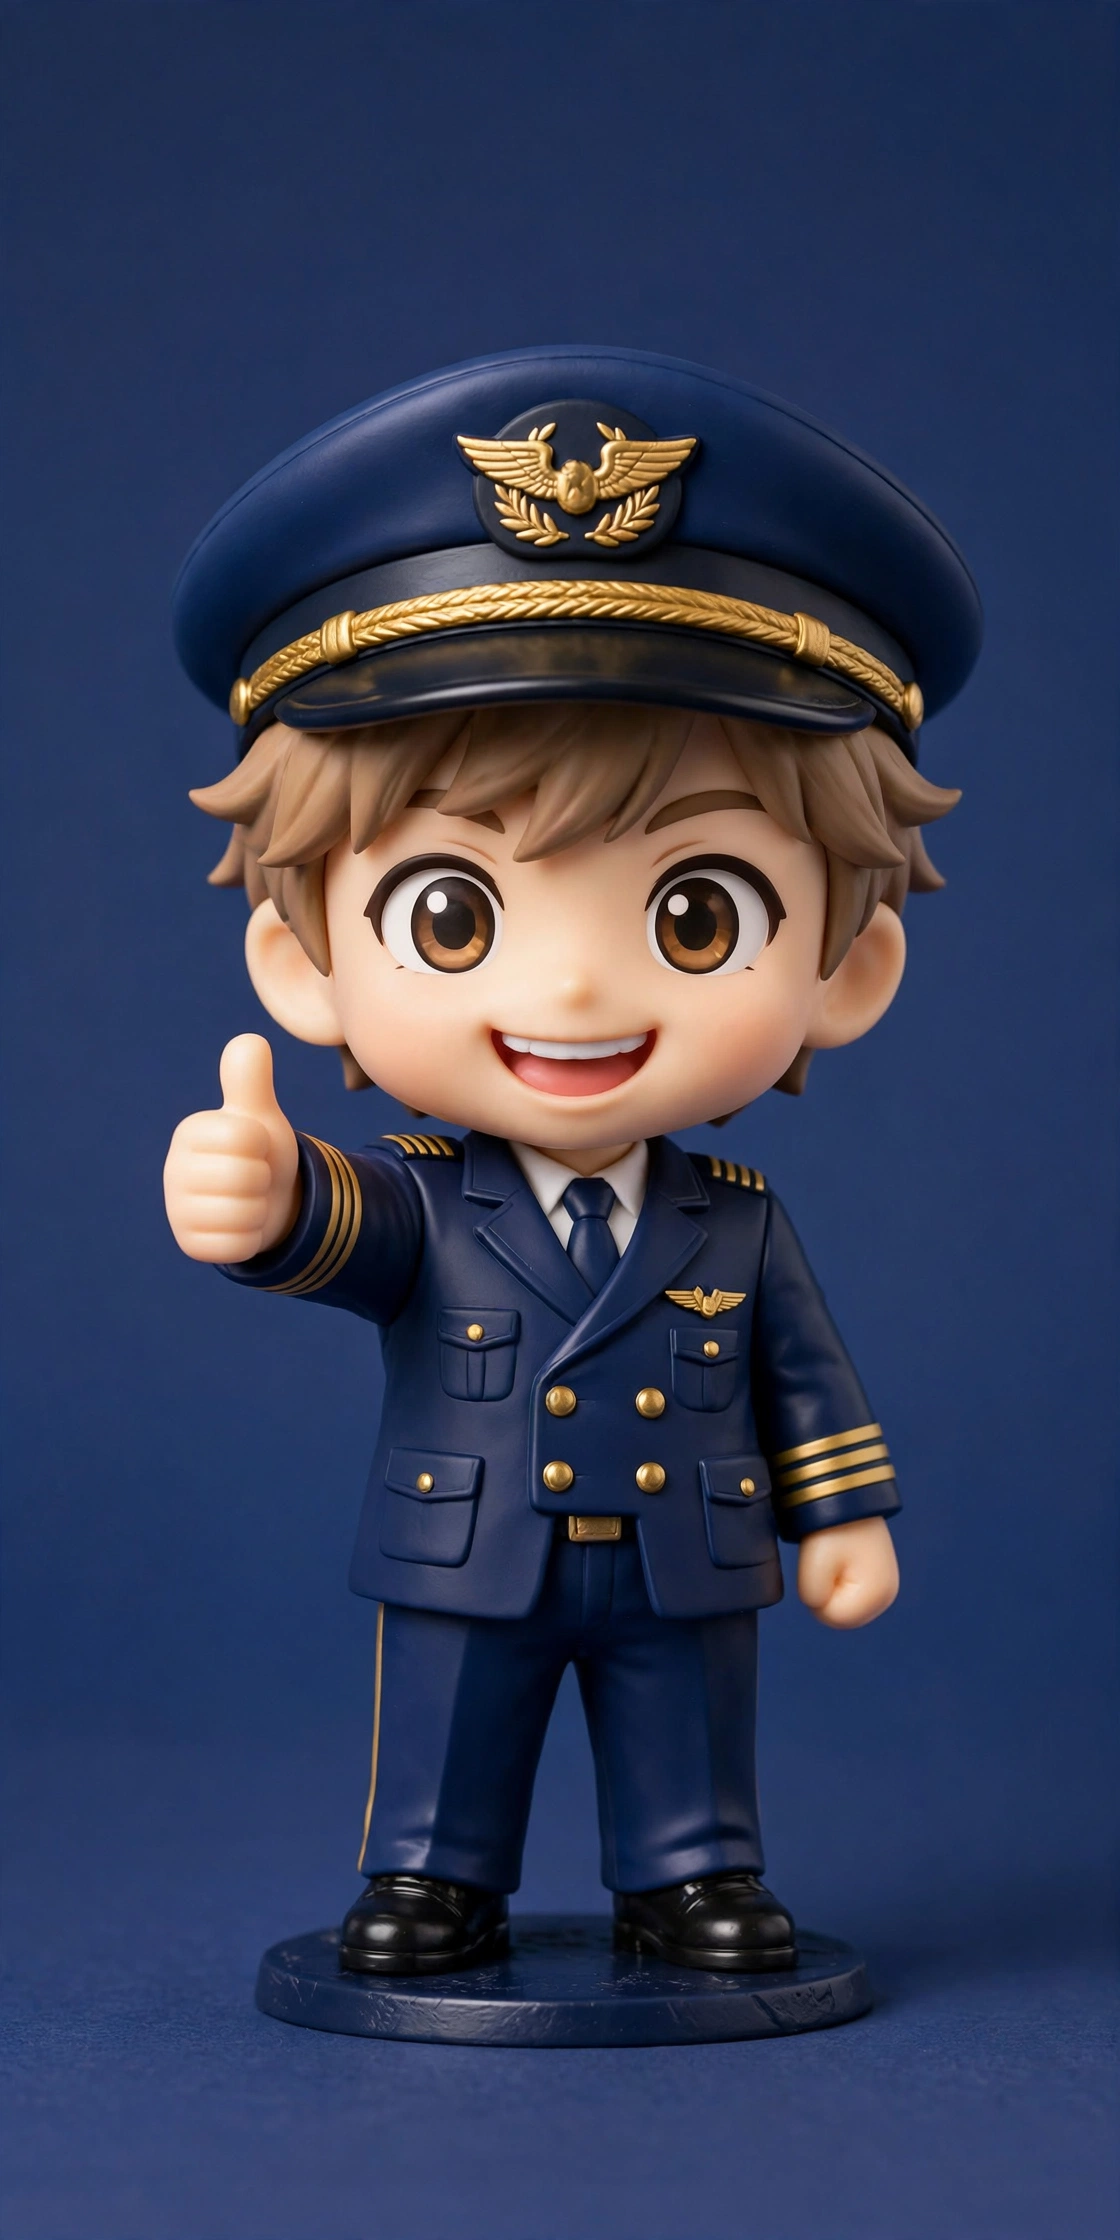
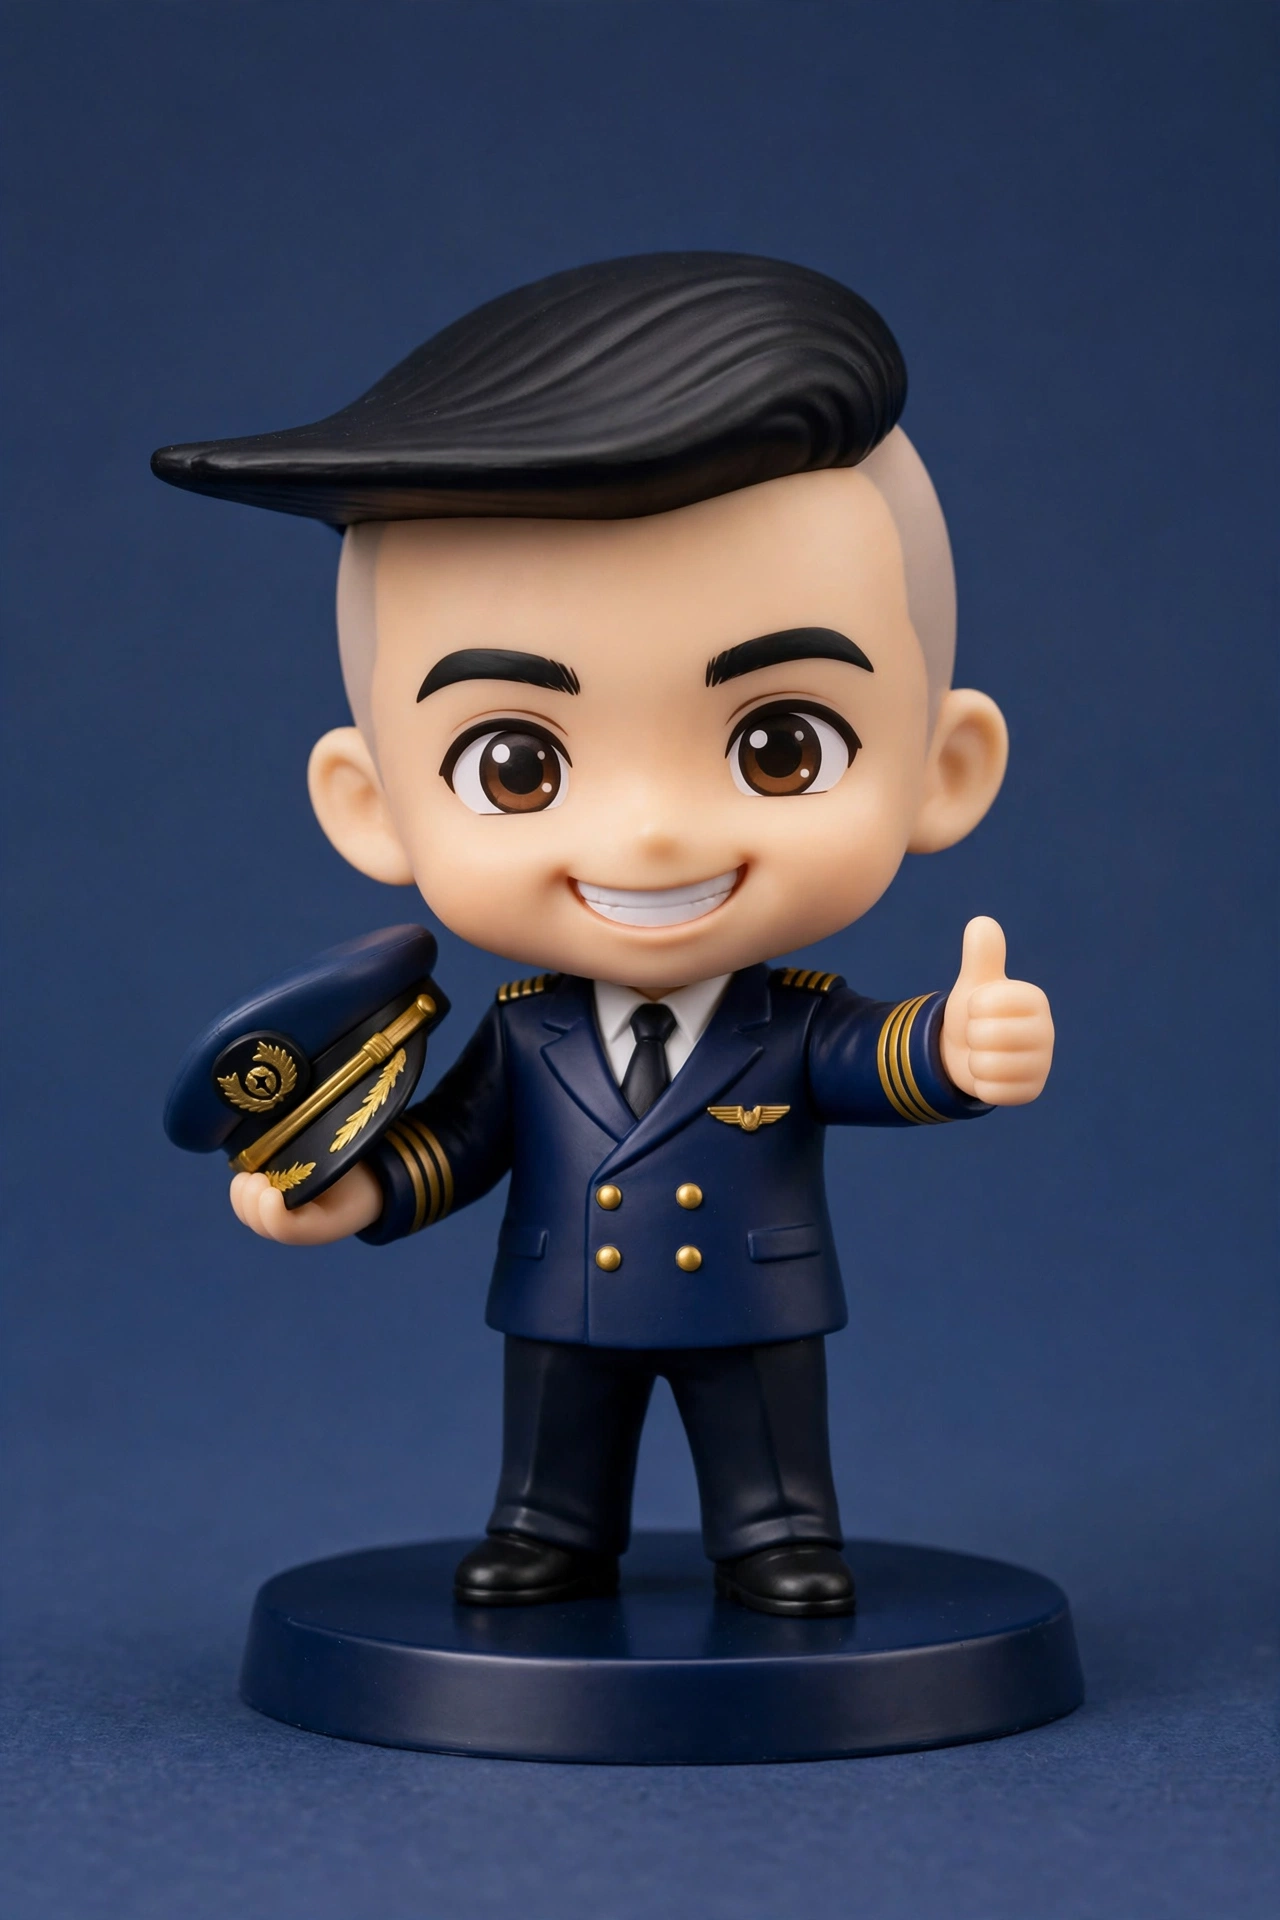
v3.2: richer interactions, new captain model

diff --git a/index.html b/index.html
@@ -191,8 +191,10 @@ img{display:block;max-width:100%}
       <div id="flyStatus" style="letter-spacing:.34em;text-indent:.34em;color:var(--gold);font-size:15px;min-height:24px">待 命</div>
     </div>
     <div class="btnrow rise" style="--i:2;margin-top:12px">
-      <button class="abtn" id="flyBtn">起飛</button>
+      <button class="abtn" id="flyBtn">自動起飛</button>
+      <button class="abtn" id="holdBtn" style="touch-action:none">按住拉桿</button>
     </div>
+    <p class="rise" style="--i:2;margin-top:10px;color:var(--paper-dim);font-size:12.5px;letter-spacing:.2em;text-indent:.2em">按住「拉桿」親手爬升 · 點下面任一步驟可直達</p>
     <div id="steps" style="width:min(88vw,430px);margin-top:24px;text-align:left;display:grid;gap:12px">
       <div class="step rise" style="--i:3" data-th="0">
         <span class="dot" style="background:var(--gb)"></span>
@@ -218,7 +220,8 @@ img{display:block;max-width:100%}
     <p class="p-caption rise" style="--i:8;margin:20px 0 8px">啟程翱翔 · 直上雲端</p>
   </div>
   <style>
-    .step{display:flex;gap:13px;padding:13px 15px;border:1px solid rgba(246,240,225,.14);border-radius:14px;background:rgba(9,24,52,.5);opacity:.42;transition:opacity .5s,border-color .5s,transform .6s var(--spring-soft)}
+    .step{display:flex;gap:13px;padding:13px 15px;border:1px solid rgba(246,240,225,.14);border-radius:14px;background:rgba(9,24,52,.5);opacity:.42;transition:opacity .5s,border-color .5s,transform .6s var(--spring-soft);cursor:pointer}
+    .step:active{transform:scale(.98)}
     .step .dot{flex:none;width:11px;height:11px;border-radius:50%;margin-top:6px}
     .step h5{font-size:16.5px;letter-spacing:.14em;color:#fff;font-weight:600}
     .step p{margin-top:4px;font-size:14px;line-height:1.85;color:var(--paper-dim)}
@@ -235,7 +238,7 @@ img{display:block;max-width:100%}
   <div class="stage">
     <div id="beam" style="position:absolute;top:-4%;left:50%;width:min(78vw,340px);height:62%;background:linear-gradient(180deg,rgba(255,236,190,.34),rgba(255,236,190,.05) 78%,transparent);clip-path:polygon(42% 0,58% 0,100% 100%,0 100%);filter:blur(2px);pointer-events:none"></div>
     <div id="motes" style="position:absolute;top:8%;left:50%;transform:translateX(-50%);width:min(70vw,300px);height:55%;pointer-events:none"></div>
-    <div class="rise" style="--i:0;perspective:700px;position:relative;z-index:2">
+    <div class="rise" id="sculptWrap" style="--i:0;perspective:700px;position:relative;z-index:2;cursor:grab;touch-action:none">
       <svg id="sculpt" viewBox="0 0 200 260" style="width:min(52vw,215px);filter:drop-shadow(0 24px 30px rgba(0,0,0,.55));will-change:transform" aria-label="大理石雕塑模型">
         <defs>
           <linearGradient id="marble" x1="0" y1="0" x2="1" y2="1">
@@ -256,10 +259,13 @@ img{display:block;max-width:100%}
       <div class="brush" style="font-size:31px;color:var(--gold);letter-spacing:.08em">鎮館之寶</div>
       <p style="margin-top:8px;line-height:2;color:var(--paper);font-size:15px">鄧氏偉器 · 真跡等身模型<br>通體渾然天成，氣勢磅礴<br>觀之令人心折，嘆為觀止</p>
     </div>
-    <div class="btnrow rise" style="--i:2;position:relative;z-index:2">
+    <p class="rise" id="viewNote" style="--i:2;position:relative;z-index:2;margin-top:16px;max-width:86vw;color:var(--gold);font-size:14.5px;letter-spacing:.14em;line-height:1.9;min-height:27px">鑑賞筆記 · 其形昂然，其勢沖天。</p>
+    <div class="btnrow rise" style="--i:3;position:relative;z-index:2;margin-top:14px">
       <button class="abtn" id="zoomBtn">近觀</button>
+      <button class="abtn" id="lightBtn">換燈光</button>
+      <button class="abtn" id="rotBtn">停旋轉</button>
     </div>
-    <p class="p-caption rise" style="--i:3;margin-top:14px;position:relative;z-index:2">靜心鑑賞 · 請勿觸摸（眼看手勿動）</p>
+    <p class="p-caption rise" style="--i:4;margin-top:14px;position:relative;z-index:2">拖動展品可親手轉向 · 點展品換一則筆記</p>
   </div>
 </div>
 
@@ -280,6 +286,8 @@ img{display:block;max-width:100%}
     <div class="btnrow rise" style="--i:2">
       <button class="abtn" data-act="salute">敬禮</button>
       <button class="abtn" data-act="spin">轉圈</button>
+      <button class="abtn" data-act="pat">摸頭</button>
+      <button class="abtn" data-act="dance">跳舞</button>
       <button class="abtn" data-act="jump">起飛</button>
     </div>
     <p class="p-caption rise" style="--i:3;margin-top:14px">機長本長 · 隨意把玩</p>
@@ -325,40 +333,86 @@ function closePanels(){document.querySelectorAll('.panel.open').forEach(function
 document.querySelectorAll('[data-open]').forEach(function(b){b.addEventListener('click',function(){openPanel(b.dataset.open);});});
 document.querySelectorAll('[data-close]').forEach(function(b){b.addEventListener('click',closePanels);});
 
-/* ---------- fly: altitude + steps ---------- */
-var flying=false;
+/* ---------- fly: altitude + steps (auto / hold / tap-step) ---------- */
+var flyAlt=0,flyAnim=null;
+var flyNames=['登機就位','滑行蓄勢','全速衝刺','昂首抬輪','巡航 · 萬米雲端'];
+function flySteps(){return [].slice.call(document.querySelectorAll('#steps .step'));}
+function setAlt(v){
+  flyAlt=Math.max(0,Math.min(10000,Math.round(v)));
+  document.getElementById('alt').textContent=flyAlt.toLocaleString('en-US');
+  var idx=0;flySteps().forEach(function(s,i){var on=flyAlt>=+s.dataset.th;s.classList.toggle('on',on);if(on)idx=i;});
+  document.getElementById('flyStatus').textContent=flyAlt>=10000?flyNames[4]:(flyAlt===0?'待 命':flyNames[idx]);
+}
+function animateAlt(to,dur,done){
+  if(flyAnim)cancelAnimationFrame(flyAnim);
+  var from=flyAlt,t0=null;
+  function frame(ts){if(!t0)t0=ts;var p=Math.min((ts-t0)/dur,1);var e=1-Math.pow(1-p,3);
+    setAlt(from+(to-from)*e);
+    if(p<1)flyAnim=requestAnimationFrame(frame);else{flyAnim=null;if(done)done();}}
+  flyAnim=requestAnimationFrame(frame);
+}
 function startFlight(){
-  if(flying)return;flying=true;
-  var alt=document.getElementById('alt'),st=document.getElementById('flyStatus'),btn=document.getElementById('flyBtn');
-  var steps=[].slice.call(document.querySelectorAll('#steps .step'));
-  steps.forEach(function(s){s.classList.remove('on');});
+  var btn=document.getElementById('flyBtn');
   btn.textContent='飛行中…';btn.style.opacity=.55;btn.style.pointerEvents='none';
-  var names=['登機就位','滑行蓄勢','全速衝刺','昂首抬輪','直上雲端 · 巡航'];
-  var t0=null,D=5200;
-  function frame(ts){
-    if(!t0)t0=ts;var p=Math.min((ts-t0)/D,1);
-    var e=1-Math.pow(1-p,3),v=Math.round(e*10000);
-    alt.textContent=v.toLocaleString('en-US');
-    var idx=0;steps.forEach(function(s,i){if(v>=+s.dataset.th){s.classList.add('on');idx=i;}});
-    st.textContent=names[Math.min(idx+(p>0&&idx===0?0:0),4)]&&(p>=1?'巡航 · 萬米雲端':names[Math.min(Math.max(idx,0),4)]);
-    if(p<1)requestAnimationFrame(frame);
-    else{st.textContent='巡航 · 萬米雲端';btn.textContent='再飛一次';btn.style.opacity=1;btn.style.pointerEvents='auto';flying=false;}
-  }
-  requestAnimationFrame(frame);
+  animateAlt(10000,5200,function(){btn.textContent='再飛一次';btn.style.opacity=1;btn.style.pointerEvents='auto';});
 }
 document.getElementById('flyBtn').addEventListener('click',startFlight);
+flySteps().forEach(function(s){s.addEventListener('click',function(){animateAlt(Math.min((+s.dataset.th)+900,10000),1100);});});
+(function(){
+  var hb=document.getElementById('holdBtn'),holding=false,last=0;
+  function climb(ts){if(!holding)return;if(last)setAlt(flyAlt+(ts-last)*3.4);last=ts;
+    if(flyAlt<10000)requestAnimationFrame(climb);}
+  hb.addEventListener('pointerdown',function(e){e.preventDefault();if(flyAnim){cancelAnimationFrame(flyAnim);flyAnim=null;}
+    holding=true;last=0;hb.textContent='拉桿中…';requestAnimationFrame(climb);});
+  ['pointerup','pointerleave','pointercancel'].forEach(function(ev){hb.addEventListener(ev,function(){holding=false;hb.textContent='按住拉桿';});});
+})();
 
-/* ---------- view: motes + zoom ---------- */
+/* ---------- view: motes + zoom + light + drag-rotate + notes ---------- */
 (function(){
   var m=document.getElementById('motes');
   for(var i=0;i<14;i++){var s=document.createElement('span');s.className='mote';
     var sz=(Math.random()*3+1.6);s.style.width=s.style.height=sz+'px';
     s.style.left=(Math.random()*92+4)+'%';s.style.top=(Math.random()*80+12)+'%';
     s.style.animationDuration=(Math.random()*7+6)+'s';s.style.animationDelay=(-Math.random()*8)+'s';m.appendChild(s);}
-  var zoomed=false,sc=document.getElementById('sculpt'),zb=document.getElementById('zoomBtn');
+  var sc=document.getElementById('sculpt'),wrap=document.getElementById('sculptWrap'),
+      beam=document.getElementById('beam'),note=document.getElementById('viewNote');
+  var zoomed=false,zb=document.getElementById('zoomBtn');
   zb.addEventListener('click',function(){zoomed=!zoomed;
-    sc.style.transition='transform 1s cubic-bezier(.3,1.4,.44,1)';
+    sc.style.transition='scale 1s cubic-bezier(.3,1.4,.44,1)';
     sc.style.scale=zoomed?'1.45':'1';zb.textContent=zoomed?'遠觀':'近觀';});
+  /* light cycling */
+  var lights=[
+    ['linear-gradient(180deg,rgba(255,236,190,.34),rgba(255,236,190,.05) 78%,transparent)','暖光'],
+    ['linear-gradient(180deg,rgba(178,216,255,.38),rgba(178,216,255,.06) 78%,transparent)','冷光'],
+    ['linear-gradient(180deg,rgba(255,196,64,.45),rgba(255,196,64,.07) 78%,transparent)','金光']
+  ],li=0;
+  document.getElementById('lightBtn').addEventListener('click',function(){
+    li=(li+1)%lights.length;beam.style.background=lights[li][0];this.textContent='燈光 · '+lights[li][1];});
+  /* auto-rotate toggle (pauses the sway animation) */
+  var rb=document.getElementById('rotBtn'),rotOn=true;
+  rb.addEventListener('click',function(){rotOn=!rotOn;
+    if(rotOn){sc.style.animation='';sc.style.transform='';sc.style.animationPlayState='running';}
+    else sc.style.animationPlayState='paused';
+    rb.textContent=rotOn?'停旋轉':'啟旋轉';});
+  /* drag to rotate manually */
+  var dragging=false,lastX=0,baseRot=0,moved=0;
+  function curRot(){var t=sc.style.transform.match(/rotateY\((-?[\d.]+)deg\)/);return t?parseFloat(t[1]):0;}
+  wrap.addEventListener('pointerdown',function(e){dragging=true;moved=0;lastX=e.clientX;baseRot=curRot();
+    sc.style.animation='none';wrap.setPointerCapture(e.pointerId);wrap.style.cursor='grabbing';});
+  wrap.addEventListener('pointermove',function(e){if(!dragging)return;var dx=e.clientX-lastX;lastX=e.clientX;moved+=Math.abs(dx);
+    baseRot+=dx*.6;sc.style.transform='rotateY('+baseRot+'deg)';});
+  wrap.addEventListener('pointerup',function(){dragging=false;wrap.style.cursor='grab';
+    if(moved<6){ /* click: next note + shine */
+      ni=(ni+1)%notes.length;note.textContent=notes[ni];
+      sc.animate([{filter:'drop-shadow(0 24px 30px rgba(0,0,0,.55)) brightness(1)'},
+                  {filter:'drop-shadow(0 24px 30px rgba(0,0,0,.55)) brightness(1.65)'},
+                  {filter:'drop-shadow(0 24px 30px rgba(0,0,0,.55)) brightness(1)'}],{duration:700,easing:'ease-out'});
+    }});
+  wrap.addEventListener('pointercancel',function(){dragging=false;});
+  var notes=['鑑賞筆記 · 其形昂然，其勢沖天。',
+             '鑑賞筆記 · 通體無一贅筆，愈看愈有精神。',
+             '鑑賞筆記 · 館員曰：每日慕名而來者，絡繹不絕。',
+             '鑑賞筆記 · 此器只應天上有，人間難得幾回觀。'],ni=0;
 })();
 
 /* ---------- play: drag spin + tap + actions ---------- */
@@ -372,12 +426,24 @@ document.getElementById('flyBtn').addEventListener('click',startFlight);
     bubble.style.opacity=1;bubble.style.transform='scale(1)';
     clearTimeout(bubbleTimer);bubbleTimer=setTimeout(function(){bubble.style.opacity=0;bubble.style.transform='scale(.6)';},2100);}
   function bump(){n++;count.textContent=n;}
+  function burst(chars){
+    for(var i=0;i<7;i++){var s=document.createElement('span');
+      s.textContent=chars[Math.floor(Math.random()*chars.length)];
+      s.style.cssText='position:absolute;left:'+(38+Math.random()*24)+'%;top:6%;font-size:'+(15+Math.random()*13)+'px;pointer-events:none;z-index:5';
+      wrap.appendChild(s);
+      var dx=(Math.random()*110-55),dy=-(60+Math.random()*80);
+      s.animate([{transform:'translate(0,0) scale(.5)',opacity:0},
+                 {transform:'translate('+(dx*.6)+'px,'+(dy*.6)+'px) scale(1.15)',opacity:1,offset:.35},
+                 {transform:'translate('+dx+'px,'+dy+'px) scale(1)',opacity:0}],
+                {duration:950+Math.random()*450,easing:'cubic-bezier(.22,1,.36,1)'});
+      (function(el){setTimeout(function(){el.remove();},1500);})(s);}
+  }
   function inertia(){if(Math.abs(vel)>.25){rot+=vel;vel*=.955;apply();anim=requestAnimationFrame(inertia);}else anim=null;}
   wrap.addEventListener('pointerdown',function(e){dragging=true;moved=0;lastX=e.clientX;vel=0;if(anim)cancelAnimationFrame(anim);wrap.setPointerCapture(e.pointerId);wrap.style.cursor='grabbing';});
   wrap.addEventListener('pointermove',function(e){if(!dragging)return;var dx=e.clientX-lastX;lastX=e.clientX;moved+=Math.abs(dx);rot+=dx*.7;vel=dx*.7;apply();});
   wrap.addEventListener('pointerup',function(e){dragging=false;wrap.style.cursor='grab';
     if(moved<7){ /* tap */
-      bump();say();
+      bump();say();burst(['✦','✧','·']);
       fig.animate([{transform:'scale(1,1)'},{transform:'scale(1.12,.82)'},{transform:'scale(.94,1.1)'},{transform:'scale(1,1)'}],{duration:560,easing:'cubic-bezier(.34,1.8,.44,1)'});
     }else{bump();inertia();}});
   wrap.addEventListener('pointercancel',function(){dragging=false;});
@@ -385,7 +451,18 @@ document.getElementById('flyBtn').addEventListener('click',startFlight);
     salute:function(){say('機長，向你敬禮！');wrap.animate([{transform:'rotateY('+rot+'deg) rotate(0deg)'},{transform:'rotateY('+rot+'deg) rotate(-7deg)'},{transform:'rotateY('+rot+'deg) rotate(0deg)'}],{duration:750,easing:'cubic-bezier(.34,1.8,.44,1)'});},
     spin:function(){say('轉圈？小意思。');var from=rot;rot+=720;wrap.style.transition='transform 1.15s cubic-bezier(.3,1.25,.4,1)';apply();
       setTimeout(function(){wrap.style.transition='';},1200);},
-    jump:function(){say('起飛！');wrap.animate([{transform:'rotateY('+rot+'deg) translateY(0)'},{transform:'rotateY('+rot+'deg) translateY(-64px) scale(1.05)'},{transform:'rotateY('+rot+'deg) translateY(0)'}],{duration:820,easing:'cubic-bezier(.34,1.8,.44,1)'});}
+    jump:function(){say('起飛！');burst(['✦','✈','✦']);wrap.animate([{transform:'rotateY('+rot+'deg) translateY(0)'},{transform:'rotateY('+rot+'deg) translateY(-64px) scale(1.05)'},{transform:'rotateY('+rot+'deg) translateY(0)'}],{duration:820,easing:'cubic-bezier(.34,1.8,.44,1)'});},
+    pat:function(){say('頭可斷，髮型不能亂。');burst(['♥','♥','✦']);
+      fig.animate([{transform:'translateY(0) scale(1,1)'},{transform:'translateY(10px) scale(1.06,.9)'},{transform:'translateY(-4px) scale(.98,1.04)'},{transform:'translateY(0) scale(1,1)'}],{duration:640,easing:'cubic-bezier(.34,1.8,.44,1)'});},
+    dance:function(){say('看好了，只跳一次。');burst(['♪','♫','♪']);
+      wrap.animate([
+        {transform:'rotateY('+rot+'deg) translateX(0) rotate(0deg)'},
+        {transform:'rotateY('+rot+'deg) translateX(-16px) rotate(-5deg)'},
+        {transform:'rotateY('+rot+'deg) translateX(16px) rotate(5deg)'},
+        {transform:'rotateY('+rot+'deg) translateX(-13px) rotate(-4deg)'},
+        {transform:'rotateY('+rot+'deg) translateX(13px) rotate(4deg)'},
+        {transform:'rotateY('+rot+'deg) translateX(0) rotate(0deg)'}],
+        {duration:1150,easing:'ease-in-out'});}
   };
   document.querySelectorAll('[data-act]').forEach(function(b){b.addEventListener('click',function(){bump();acts[b.dataset.act]();});});
 })();
